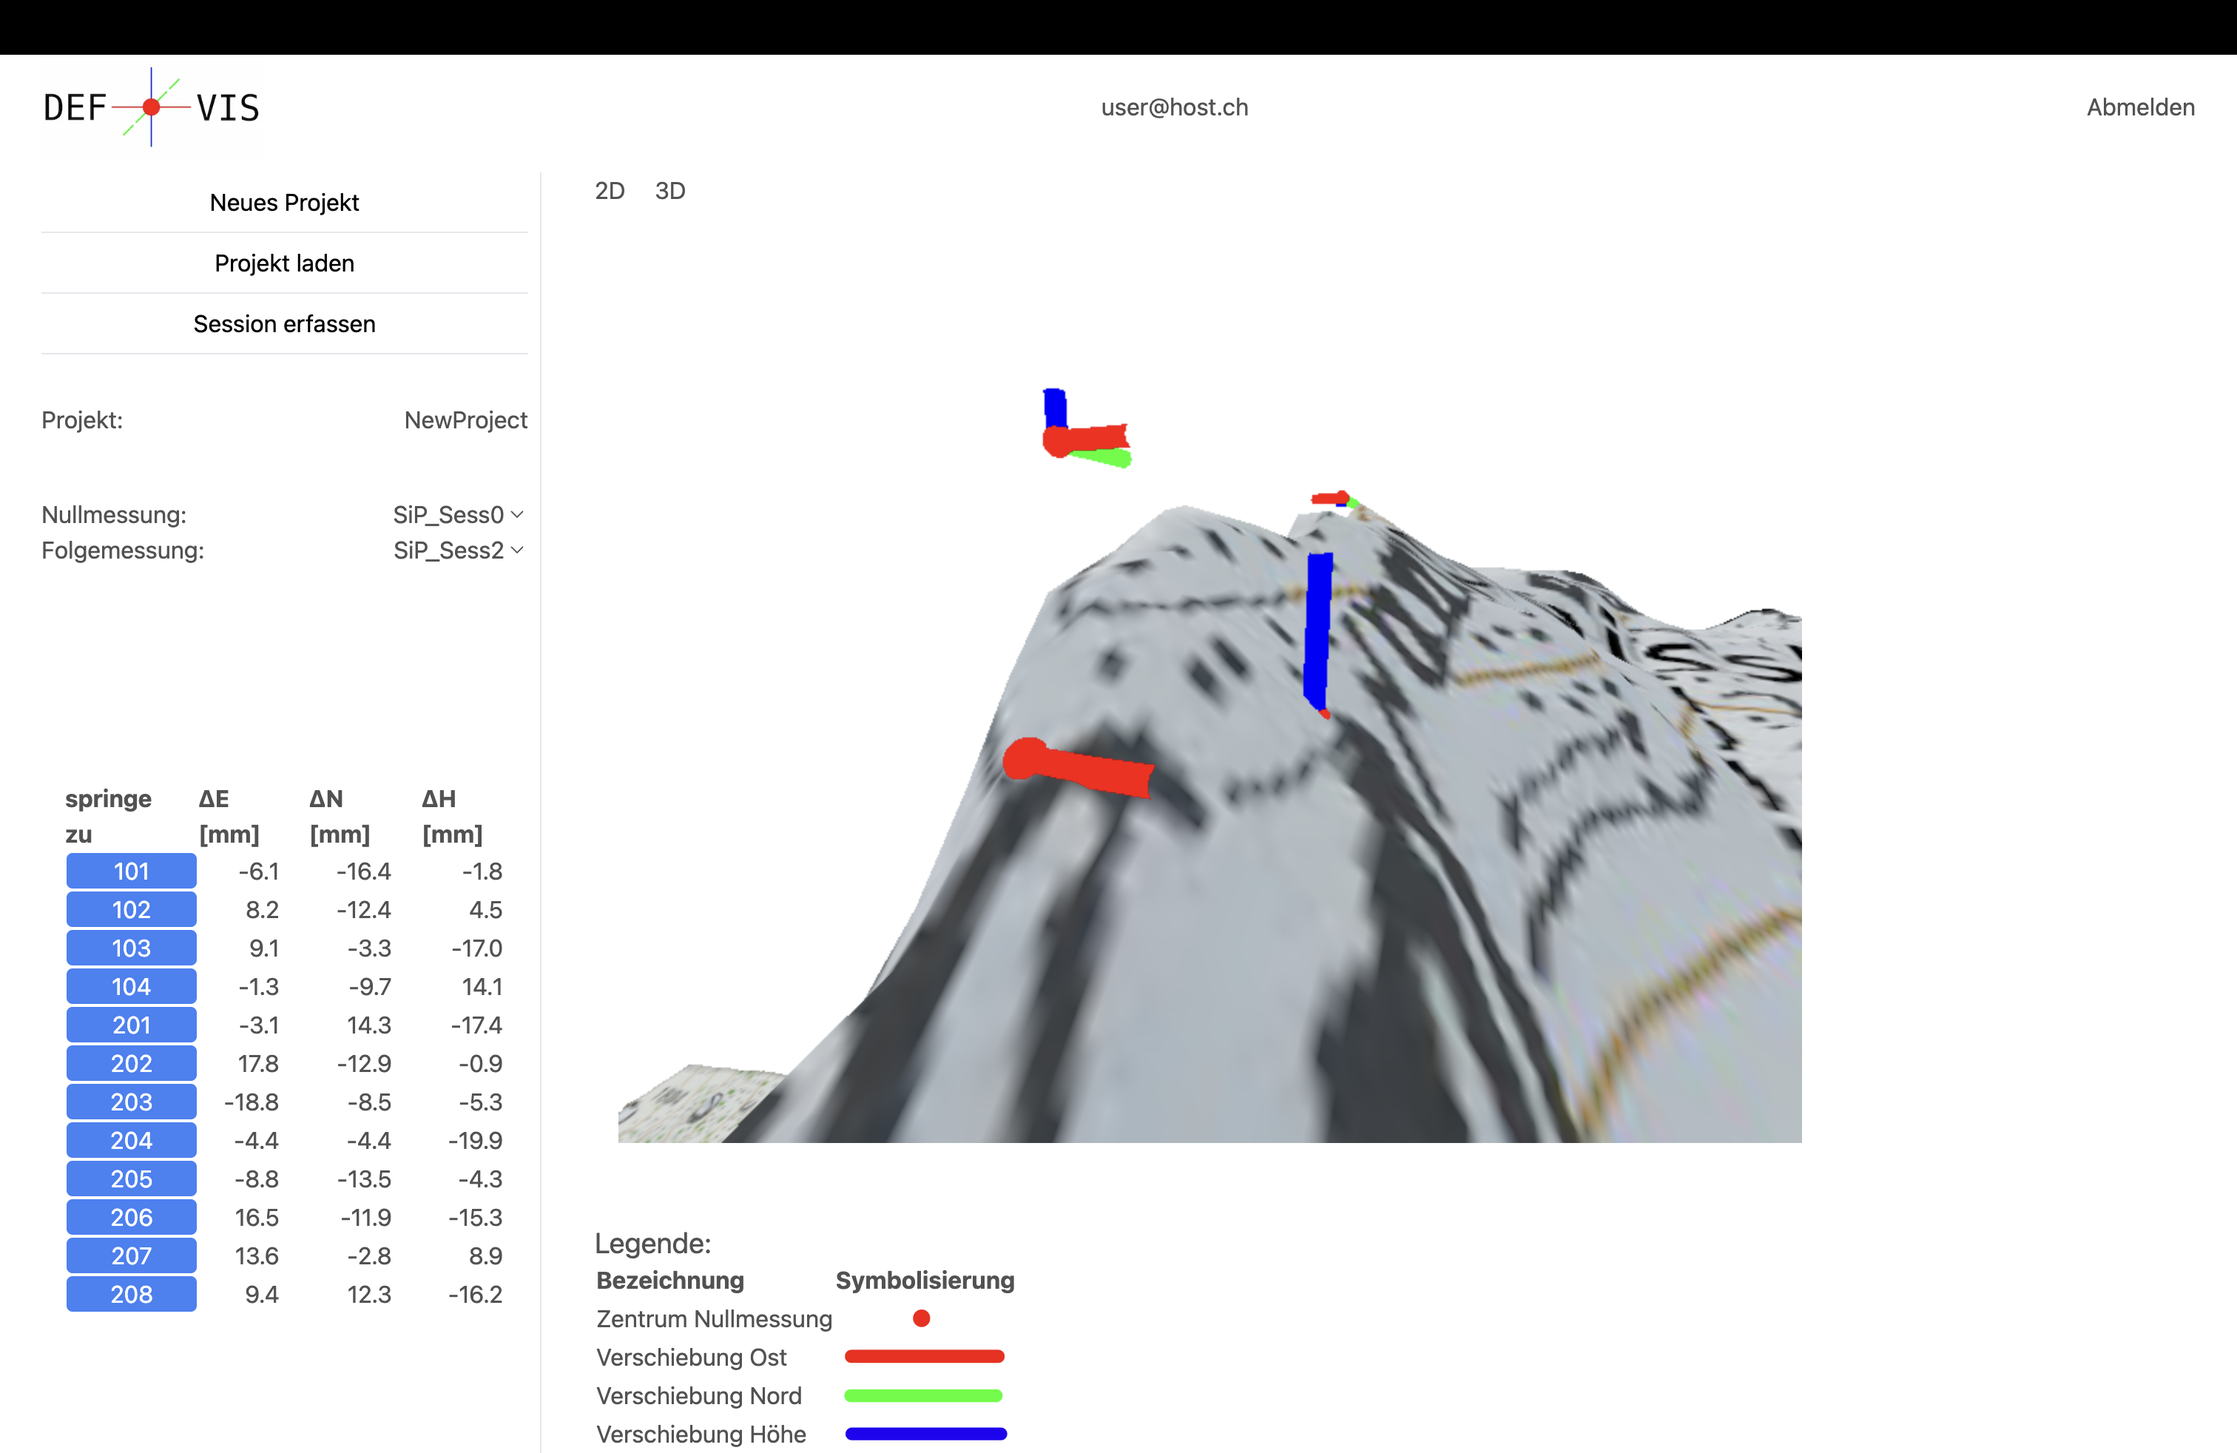
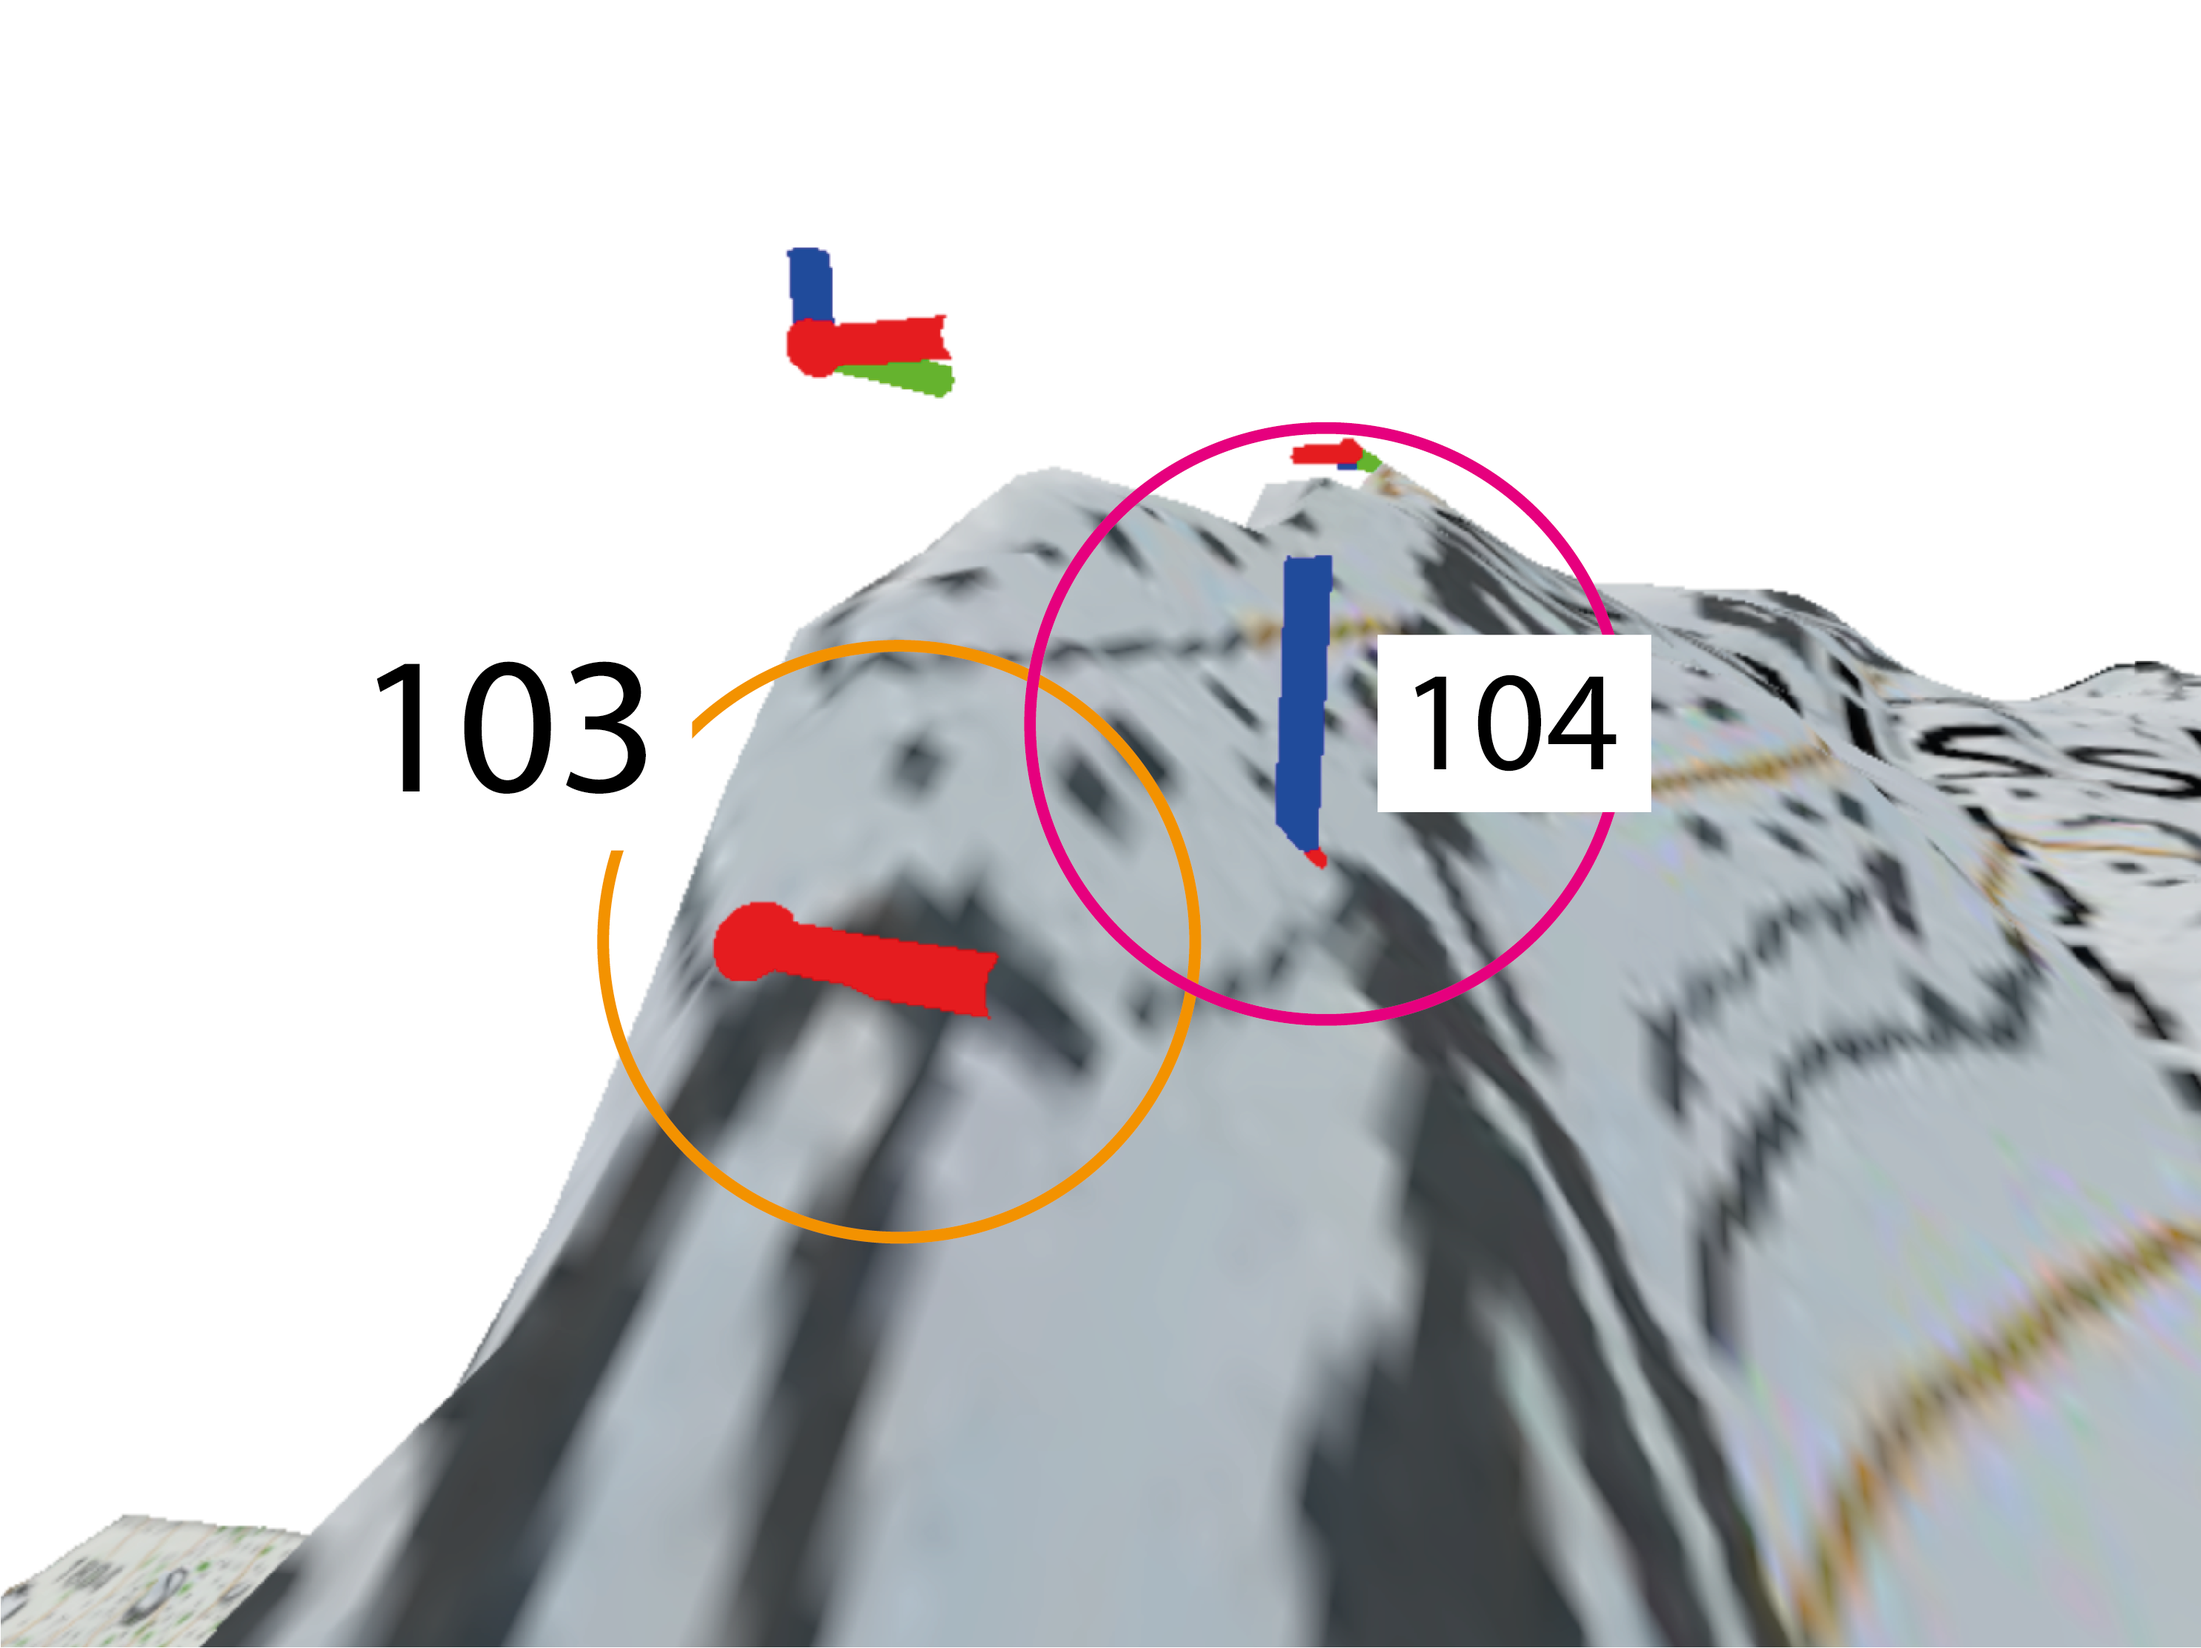
update_bild

diff --git a/docs/index.md b/docs/index.md
@@ -147,26 +147,28 @@ Ich hoffe, dieser überarbeitete Abschnitt hilft Ihnen, Ihre App weiter zu verbe
 
 Die App DEFVIS ist derzeit nur auf Deutsch verfügbar. Zukünftig wäre es sinnvoll, die Web-App in mehreren Sprachen anzubieten, darunter Englisch, Französisch und Italienisch, um eine breitere Nutzerbasis anzusprechen und die Benutzerfreundlichkeit zu verbessern. Dies würde es internationalen Nutzern ermöglichen, die App in ihrer bevorzugten Sprache zu nutzen, was die Zugänglichkeit und Akzeptanz erheblich steigern könnte.
 
-### Darstellung 3D-Vektoren
+### Darstellung und Beschriftung der Vektoren/Punkte in der 3D-Ansicht
 
-<table>
+<table style="width: 100%;">
   <tr>
-    <td>
-      <div>
-        <img src="screenshots/ausblick/3D_oben.png" alt="3D oben" style="max-width: 100%; box-shadow: 0 0 5px rgba(0, 0, 0, 0.3);">
+    <td style="width: 50%; vertical-align: top;">
+      <div style="text-align: center;">
+        <img src="screenshots/ausblick/3D_oben.png" alt="3D oben" style="width: 100%; box-shadow: 0 0 5px rgba(0, 0, 0, 0.3);">
         <p>Screenshot aus der App mit 3D-Ansicht von "oben": bei einigen Punkten sind nicht alle Fehlervektoren sichtbar</p>
       </div>
     </td>
-    <td>
-      <div>
-        <img src="screenshots/ausblick/3D_unten.png" alt="3D unten" style="max-width: 100%; box-shadow: 0 0 5px rgba(0, 0, 0, 0.3);">
+    <td style="width: 50%; vertical-align: top;">
+      <div style="text-align: center;">
+        <img src="screenshots/ausblick/3D_unten.png" alt="3D unten" style="width: 100%; box-shadow: 0 0 5px rgba(0, 0, 0, 0.3);">
         <p>Screenshot aus der App mit 3D-Ansicht von "unten": Punkte mitsamt Vektoren werden unter der Karte erst angezeigt.</p>
       </div>
     </td>
   </tr>
 </table>
 
-Die Vektoren werden in der 3D-Ansicht nicht komplett sichtbar gerendert. Das Problem ist, dass die Vektoren teilweise im Modell "verschwinden" und es dem Betrachtenden schwierig machen die Daten nicht fehlzuinterpretieren. Ein Lösungsansatz wäre, die Karte mit einer Transparenz zu versehen, damit auch Vektoren, welche in das Modell verschwinden sichtbar werden. Zurzeit macht die Umsetzung keinen Sinn, da zuerst ein korektes Modell gerendert werden muss, bei welchem die Modellparameter genau bestimmt werden können.
+In der 3D-Ansicht werden die Vektoren nicht vollständig sichtbar gerendert. Das Problem besteht darin, dass die Vektoren teilweise im Modell verschwinden, was es dem Betrachter erschwert, die Daten korrekt zu interpretieren. Ein möglicher Lösungsansatz wäre, die Karte mit einer gewissen Transparenz zu versehen, sodass auch die Vektoren, die im Modell verschwinden, sichtbar bleiben. Derzeit ist diese Umsetzung jedoch nicht sinnvoll, da zunächst ein korrektes Modell gerendert werden muss, bei dem die Modellparameter genau bestimmt werden können.
+
+Um die Punkte besser identifizieren zu können, sollte zudem eine Beschriftung im 3D-Modell für die jeweiligen Punkte dargestellt werden.
 
 ---
 
